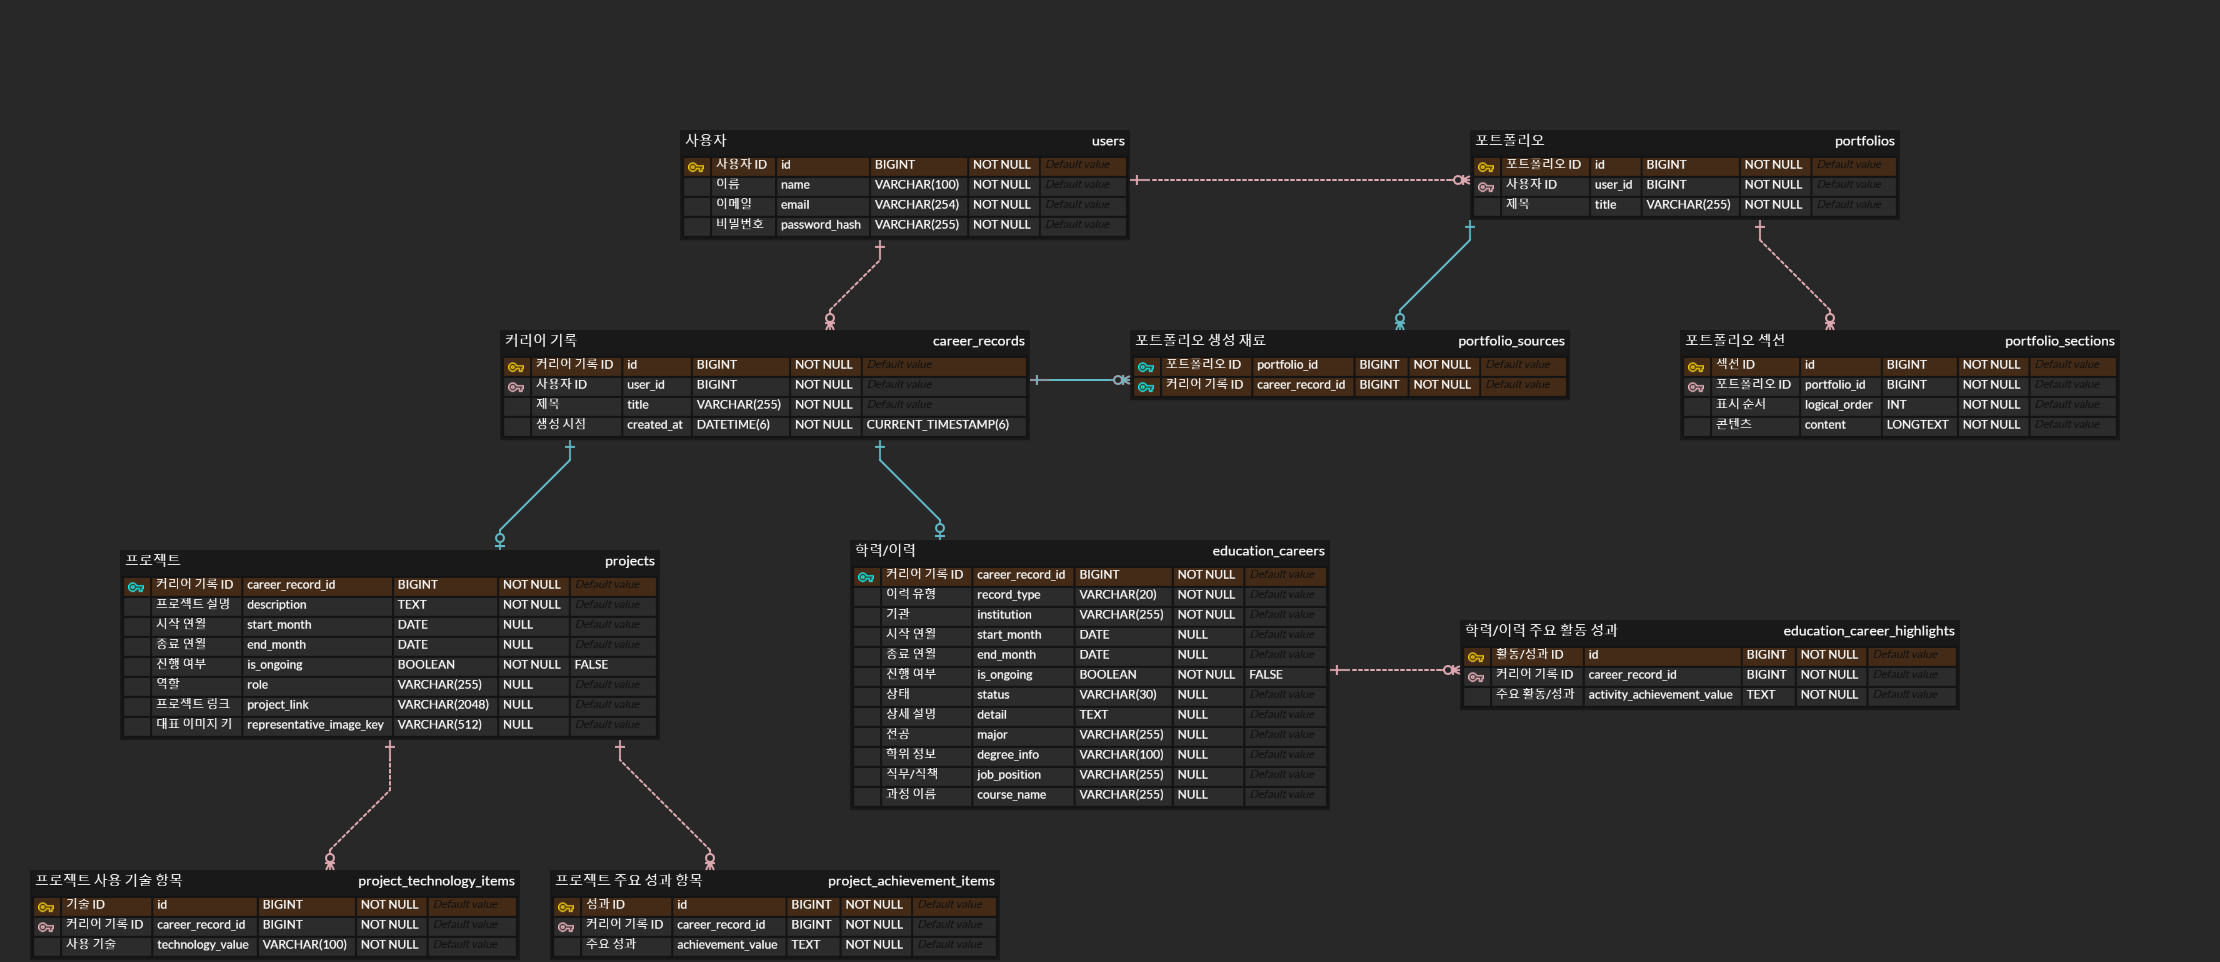
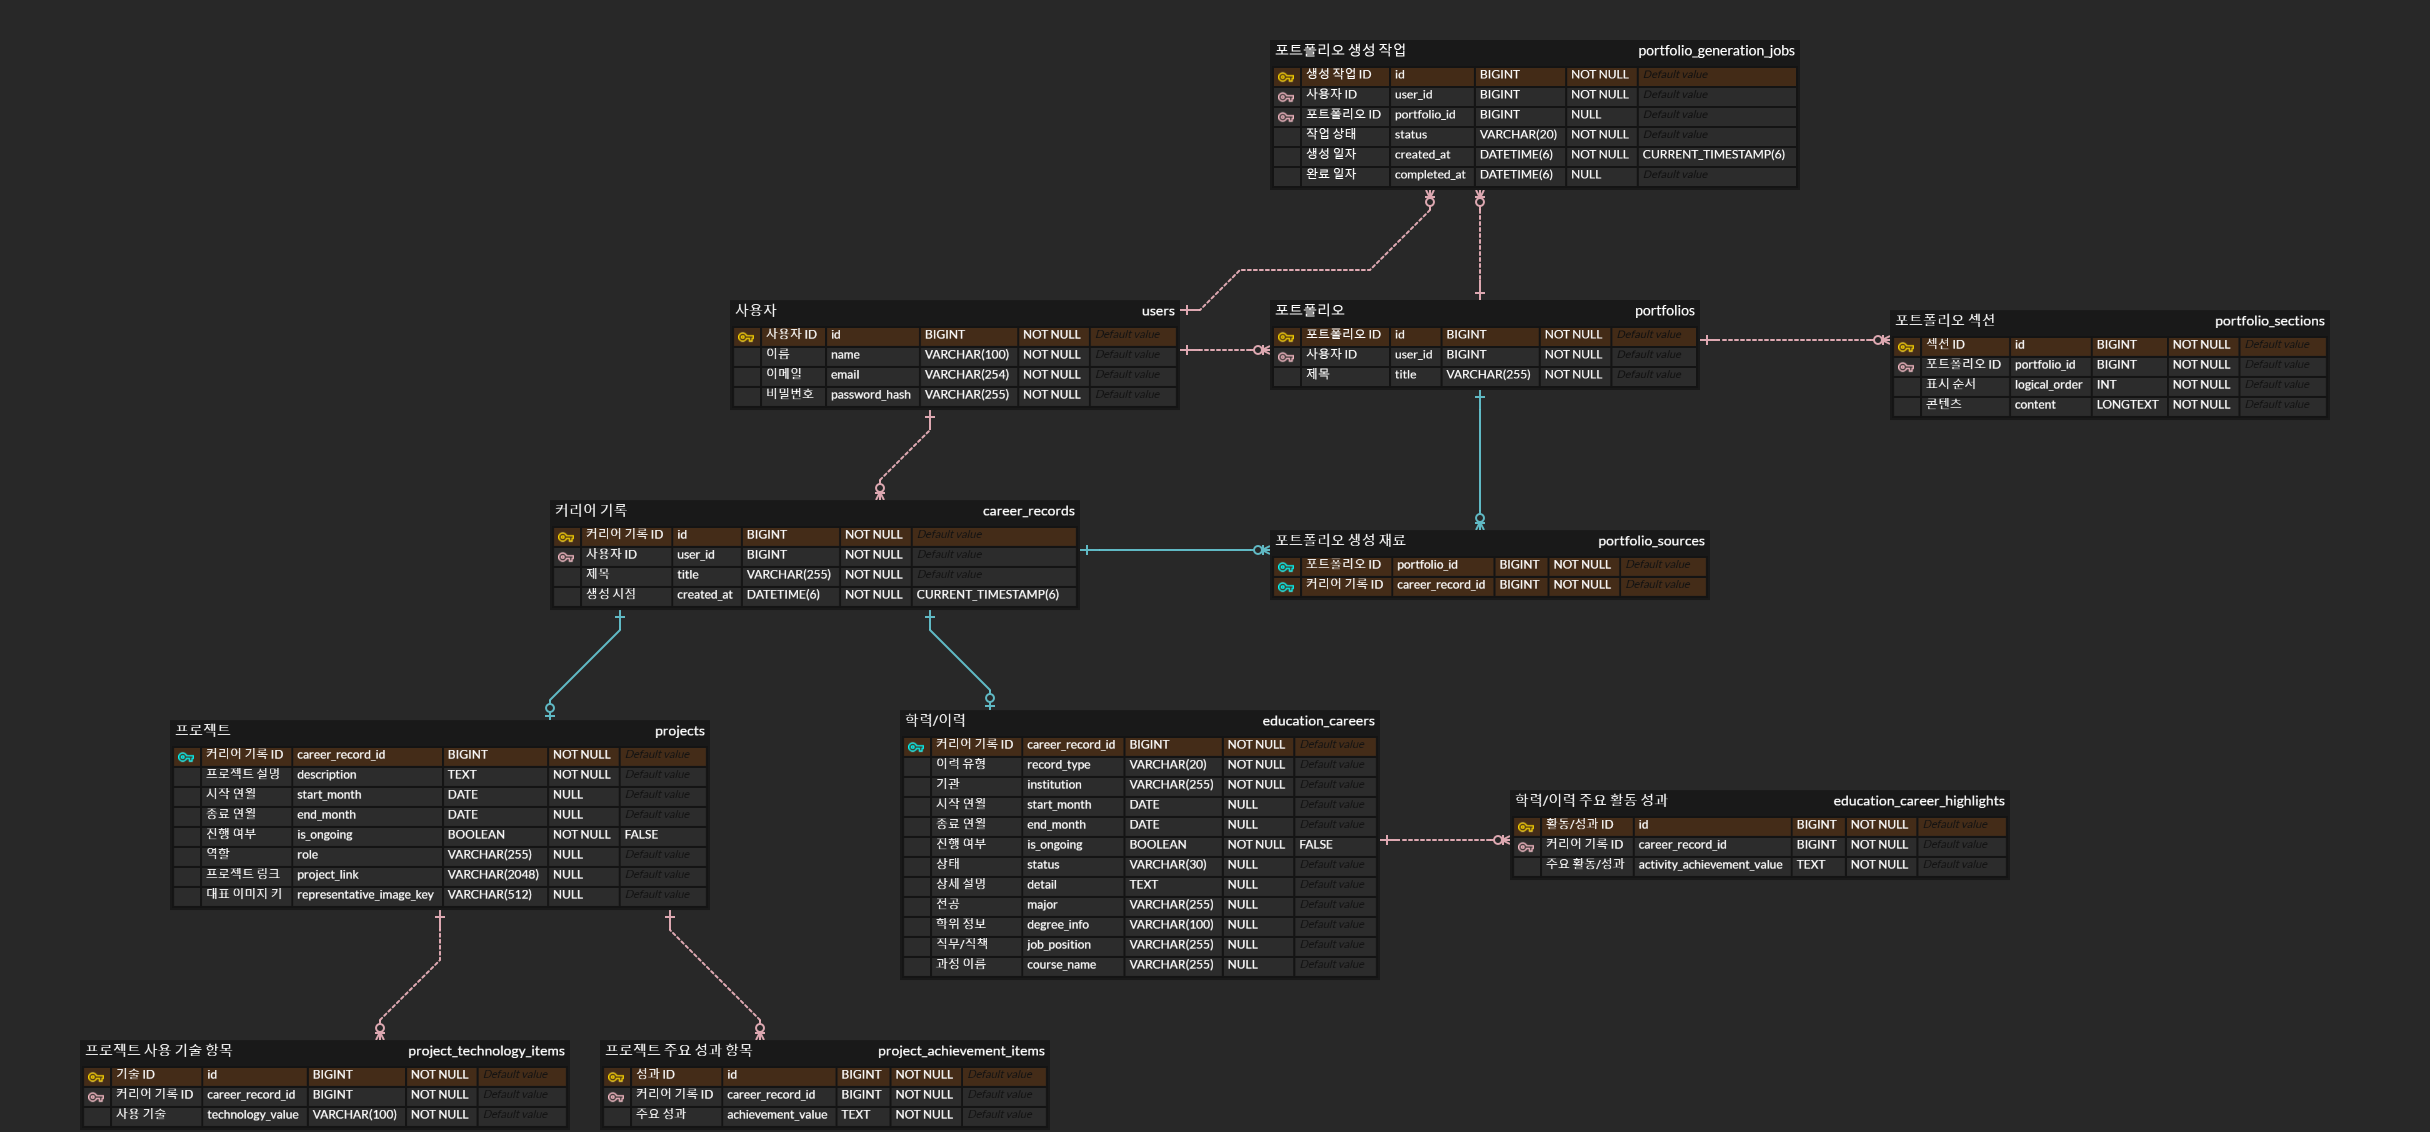
docs: 포트폴리오 비동기 생성 작업 및 물리 ERD 갱신

diff --git a/docs/requirements/erd/mvp-logical-erd.md b/docs/requirements/erd/mvp-logical-erd.md
@@ -17,7 +17,7 @@ ORM 매핑 및 API 구조는 정의하지 않는다.
 - [Expresso 1차 MVP 범위 초안](../mvp-scope.md)
 - [Expresso 1차 MVP 개념 ERD](./mvp-conceptual-erd.md)
 
-현재 1차 MVP의 논리 모델에는 다음 10개 엔티티를 포함한다.
+현재 1차 MVP의 논리 모델에는 다음 11개 엔티티를 포함한다.
 
 1. 사용자
 2. 커리어 기록
@@ -29,6 +29,7 @@ ORM 매핑 및 API 구조는 정의하지 않는다.
 8. 포트폴리오
 9. 포트폴리오 섹션
 10. 포트폴리오 생성 재료
+11. 포트폴리오 생성 작업
 
 현재 MVP에서 상세화하는 Career Category는 프로젝트와 학력·이력이다.
 자격증·수상과 학술·집필은 현재 MVP에 포함하지 않으며, 활동·리더십과 경험은
@@ -50,6 +51,11 @@ ORM 매핑 및 API 구조는 정의하지 않는다.
 | 포트폴리오 | 사용자에게 귀속되는 독립 결과물 엔티티 |
 | 포트폴리오 섹션 | 포트폴리오에 종속된 순서 있는 콘텐츠 엔티티 |
 | 포트폴리오 N:M 커리어 기록 | 두 식별자를 복합 식별자로 사용하는 포트폴리오 생성 재료 엔티티 |
+| 비동기 생성 작업 영속화 결정 | 사용자와 생성 결과 포트폴리오를 참조하는 포트폴리오 생성 작업 엔티티 |
+
+포트폴리오 생성 작업은 핵심 비즈니스 개념을 표현하는 개념 ERD에는 추가하지
+않는다. 비동기 처리 상태를 DB에 영속하는 독립 애플리케이션 Resource이므로 논리
+ERD부터 포함한다.
 
 개념 ERD에서는 사용자를 소유 주체로만 표현하고 인증 정보를 생략했다. 논리
 ERD에서는 현재 사용자 Decision에 따라 이름, 이메일 및 비밀번호 자격정보를
@@ -290,7 +296,33 @@ ERD에서는 현재 사용자 Decision에 따라 이름, 이메일 및 비밀번
 콘텐츠별 출처 관계는 추가하지 않는다. 출처 관계는 원본 Career와 포트폴리오의
 자동 동기화를 의미하지 않는다.
 
-## 13. 논리 엔티티 관계
+## 13. 포트폴리오 생성 작업
+
+포트폴리오 생성 작업은 비동기 Portfolio 생성 요청의 처리 상태와 생성 결과를
+추적하는 논리 엔티티이다.
+
+| 논리 속성 | 역할 | 필수 여부 및 제약 |
+| --- | --- | --- |
+| 생성 작업 식별자 | PK | 필수 |
+| 사용자 식별자 | FK → 사용자 | 필수 |
+| 상태 | 일반 속성 | 필수, `PENDING`, `PROCESSING`, `SUCCEEDED`, `FAILED` 중 하나 |
+| 생성된 포트폴리오 식별자 | FK → 포트폴리오 | 선택 |
+| 생성 시점 | 일반 속성 | 필수 |
+| 완료 시점 | 일반 속성 | 선택 |
+
+사용자 한 명은 포트폴리오 생성 작업을 0개 이상 가질 수 있으며, 각 생성 작업은
+정확히 한 사용자에게 귀속된다. 각 생성 작업은 생성 결과 포트폴리오를 0개 또는
+1개 참조한다. 하나의 포트폴리오를 참조할 수 있는 생성 작업 수에는 현재 고유
+제약을 두지 않는다.
+
+생성 요청을 접수하면 생성 작업을 먼저 생성한다. 유효한 생성 결과를 얻은 경우
+포트폴리오, 포트폴리오 섹션 및 포트폴리오 생성 재료를 저장하고 생성 작업을
+`SUCCEEDED` 상태와 생성된 포트폴리오에 연결한다. 생성에 실패한 경우 정상 완료된
+포트폴리오를 저장하지 않고 생성 작업을 `FAILED` 상태로 유지한다.
+
+상세 상태 전이, 재시도, Queue 및 Worker 구조는 현재 논리 모델에서 결정하지 않는다.
+
+## 14. 논리 엔티티 관계
 
 | 관계 | Cardinality | 관계 종류 | 의미 |
 | --- | --- | --- | --- |
@@ -303,8 +335,10 @@ ERD에서는 현재 사용자 Decision에 따라 이름, 이메일 및 비밀번
 | 포트폴리오 — 포트폴리오 섹션 | 1 : 1..N | 비식별 관계 | 각 포트폴리오는 하나 이상의 섹션을 가진다. |
 | 포트폴리오 — 포트폴리오 생성 재료 | 1 : 1..N | 식별 관계 | 포트폴리오 식별자가 생성 재료의 복합 PK에 포함된다. |
 | 커리어 기록 — 포트폴리오 생성 재료 | 1 : 0..N | 식별 관계 | 커리어 기록 식별자가 생성 재료의 복합 PK에 포함된다. |
+| 사용자 — 포트폴리오 생성 작업 | 1 : 0..N | 비식별 관계 | 각 생성 작업은 정확히 한 사용자에게 귀속된다. |
+| 포트폴리오 — 포트폴리오 생성 작업 | 1 : 0..N | 비식별 관계 | 각 생성 작업은 생성 결과 포트폴리오를 0개 또는 1개 참조한다. |
 
-## 14. 현재 논리 ERD
+## 15. 현재 논리 ERD
 
 다음 그림은 물리 데이터 타입과 구현 기술을 제외한 현재 논리 관계를 나타낸다.
 
@@ -321,18 +355,22 @@ ERD에서는 현재 사용자 Decision에 따라 이름, 이메일 및 비밀번
   │
   └─ 비식별 ── (0..N) 포트폴리오
                             ├─ (1..N) 포트폴리오 섹션
-                            └─ (1..N) 포트폴리오 생성 재료
-                                              └─ (각 항목이 커리어 기록 1개 참조)
+                            ├─ (1..N) 포트폴리오 생성 재료
+                            │                  └─ (각 항목이 커리어 기록 1개 참조)
+                            └─ (0..N) 포트폴리오 생성 작업의 생성 결과
 
 커리어 기록 (1) ── 식별 ── (0..N) 포트폴리오 생성 재료
 포트폴리오   (1) ── 식별 ── (1..N) 포트폴리오 생성 재료
+사용자       (1) ── 비식별 ── (0..N) 포트폴리오 생성 작업
+포트폴리오   (1) ── 비식별 ── (0..N) 포트폴리오 생성 작업
+각 포트폴리오 생성 작업은 생성 결과 포트폴리오를 0..1개 참조한다.
 ```
 
 ![Expresso 1차 MVP 논리 ERD](./images/expresso-1st-mvp-logical-erd.png)
 
-> 본 이미지는 임시 파일이며, 추후 수정할 예정이다.
+> 본 이미지는 임시 파일이며, 포트폴리오 생성 작업은 추후 이미지에 반영할 예정이다.
 
-## 15. 논리 제약
+## 16. 논리 제약
 
 현재 논리 모델은 다음 제약을 가진다.
 
@@ -348,8 +386,11 @@ ERD에서는 현재 사용자 Decision에 따라 이름, 이메일 및 비밀번
 - 하나의 포트폴리오는 최소 1개의 포트폴리오 생성 재료를 가진다.
 - 같은 포트폴리오와 커리어 기록의 생성 재료 조합은 중복되지 않는다.
 - Career와 포트폴리오는 출처 관계를 유지하더라도 자동으로 동기화되지 않는다.
+- 포트폴리오 생성 작업의 상태는 `PENDING`, `PROCESSING`, `SUCCEEDED`, `FAILED` 중 하나이다.
+- 정상 완료된 생성 작업은 생성된 포트폴리오를 참조한다.
+- 실패한 생성 작업은 정상 완료된 포트폴리오를 생성하지 않는다.
 
-## 16. 정규화 검토
+## 17. 정규화 검토
 
 현재 논리 구조는 다음 원칙을 따른다.
 
@@ -361,11 +402,12 @@ ERD에서는 현재 사용자 Decision에 따라 이름, 이메일 및 비밀번
 - 포트폴리오와 커리어 기록의 N:M 관계는 포트폴리오 생성 재료 엔티티로
   해소한다.
 - 포트폴리오 섹션의 순서는 포트폴리오 범위의 논리적 고유성으로 관리한다.
+- 비동기 생성 상태는 포트폴리오 결과물과 분리된 포트폴리오 생성 작업에서 관리한다.
 
 현재 1차 MVP의 프로젝트 링크는 선택 가능한 단일값이다. 대표 이미지 및 Section
 콘텐츠는 현재 정의된 의미까지만 표현하며, 실제 저장 구조는 물리 ERD에서 검토한다.
 
-## 17. 현재 미결정 사항
+## 18. 현재 미결정 사항
 
 다음 사항은 현재 논리 ERD의 문서화를 막지 않으며 미결정 상태를 유지한다.
 
@@ -378,9 +420,14 @@ ERD에서는 현재 사용자 Decision에 따라 이름, 이메일 및 비밀번
 - 대표 이미지 저장 형식
 - FK 삭제 정책
 - 생성 결과 독립성을 구현할 Snapshot 방식
+- 포트폴리오 생성 작업의 상세 상태 전이
+- 생성 실패 정보의 표현 및 노출 범위
+- 생성 작업의 재시도 정책
+- Queue 및 Worker 구조
+- Idempotency-Key 정책
 - JPA 매핑 방식
 
-## 18. 물리 ERD에서 검토할 사항
+## 19. 물리 ERD에서 검토할 사항
 
 물리 ERD 단계에서는 다음 사항을 별도로 검토한다.
 
@@ -394,6 +441,8 @@ ERD에서는 현재 사용자 Decision에 따라 이름, 이메일 및 비밀번
 - 대표 이미지의 저장 및 수명주기 구조
 - 포트폴리오 섹션 콘텐츠의 저장 형식
 - 포트폴리오 생성 재료의 복합 PK와 참조 무결성 구현 방식
+- 포트폴리오 생성 작업의 식별자, 상태, 시점 및 결과 참조 구조
+- 포트폴리오 생성 작업의 FK와 조회 인덱스
 - FK 삭제 및 Cascade 정책
 - 필요한 인덱스와 고유 제약
 - 생성 결과 독립성을 위한 Snapshot, 복사 또는 참조 구조

diff --git a/docs/requirements/erd/mvp-physical-erd.md b/docs/requirements/erd/mvp-physical-erd.md
@@ -54,7 +54,7 @@ UUID는 현재 1차 MVP에서 사용하지 않는다.
 
 ## 4. 현재 물리 테이블
 
-현재 1차 MVP 물리 모델은 정확히 다음 10개 테이블로 구성한다.
+현재 1차 MVP 물리 모델은 정확히 다음 11개 테이블로 구성한다.
 
 | 테이블 | 역할 | 대응 논리 엔티티 |
 | --- | --- | --- |
@@ -68,6 +68,7 @@ UUID는 현재 1차 MVP에서 사용하지 않는다.
 | `portfolios` | 사용자에게 귀속되는 독립 Portfolio 결과를 저장한다. | 포트폴리오 |
 | `portfolio_sections` | Portfolio의 순서 있는 콘텐츠를 저장한다. | 포트폴리오 섹션 |
 | `portfolio_sources` | Portfolio 생성에 사용한 CareerRecord 집합을 추적한다. | 포트폴리오 생성 재료 |
+| `portfolio_generation_jobs` | 비동기 Portfolio 생성 요청의 상태와 생성 결과를 추적한다. | 포트폴리오 생성 작업 |
 
 현재 물리 설계에는 별도 Master, Category, Asset 또는 Block 테이블을 추가하지
 않는다.
@@ -354,7 +355,36 @@ Portfolio 소유 사용자 = Source CareerRecord 소유 사용자
 선택한 모든 CareerRecord의 존재 여부, 사용자 소유권 및 새로운 생성 재료로 사용할
 수 있는지를 재검증하고 하나의 생성 트랜잭션으로 저장한다.
 
-## 14. 일반화와 특수화
+## 14. 포트폴리오 생성 작업
+
+### 14.1 `portfolio_generation_jobs`
+
+| 컬럼 | MySQL 타입 | NULL | 키 및 제약 | 의미 |
+| --- | --- | --- | --- | --- |
+| `id` | `BIGINT AUTO_INCREMENT` | 불가 | PK | 생성 작업 식별자 |
+| `user_id` | `BIGINT` | 불가 | FK → `users.id` | 생성 요청 사용자 |
+| `status` | `VARCHAR(20)` | 불가 | 허용값 후보 적용 | 생성 작업 상태 |
+| `portfolio_id` | `BIGINT` | 허용 | FK → `portfolios.id` | 생성된 Portfolio |
+| `created_at` | `DATETIME(6)` | 불가 | `DEFAULT CURRENT_TIMESTAMP(6)` | 생성 요청 접수 시점 |
+| `completed_at` | `DATETIME(6)` | 허용 |  | 생성 완료 또는 실패 시점 |
+
+`status`는 `PENDING`, `PROCESSING`, `SUCCEEDED`, `FAILED` 중 하나이다. 실제 DDL
+Import 파일에서는 ERDCloud 호환성을 위해 CHECK로 강제하지 않고 후보 규칙을
+주석으로 기록한다.
+
+생성 요청을 접수하면 생성 작업 행을 먼저 저장한다. 정상 생성된 경우 Portfolio,
+Section 및 Source를 저장하고 `portfolio_id`로 결과를 연결한다. 실패한 경우 정상
+완료된 Portfolio를 저장하지 않는다. 정상 완료 및 실패 시점은 `completed_at`으로
+기록한다.
+
+사용자 FK 지원을 위해 `INDEX(user_id)`를 사용하고 선택 결과 Portfolio FK 지원을
+위해 `INDEX(portfolio_id)`를 사용한다. 사용자별 작업 목록 쿼리가 현재 MVP에
+정의되지 않았으므로 `(user_id, created_at)` 복합 인덱스는 추가하지 않는다.
+
+상세 상태 전이, 재시도, 실패 정보 노출, Queue 및 Worker 구조, Idempotency-Key는
+현재 물리 ERD에서 결정하지 않는다.
+
+## 15. 일반화와 특수화
 
 현재 subtype 구조는 다음과 같다.
 
@@ -383,7 +413,7 @@ DB의 PK와 FK로 다음 조건을 보장할 수 있다.
 검증 후 함께 Commit한다. 이 조건을 위해 Category 컬럼이나 DB Trigger를 현재
 추가하지 않는다.
 
-## 15. 인덱스와 고유 제약
+## 16. 인덱스와 고유 제약
 
 | 테이블 | Index / Constraint | 목적 |
 | --- | --- | --- |
@@ -396,6 +426,8 @@ DB의 PK와 FK로 다음 조건을 보장할 수 있다.
 | `portfolio_sections` | UNIQUE `(portfolio_id, logical_order)` | Portfolio별 순서 중복 방지 및 정렬 |
 | `portfolio_sources` | PK `(portfolio_id, career_record_id)` | Source 조합 중복 방지와 Portfolio 기준 조회 |
 | `portfolio_sources` | INDEX `(career_record_id, portfolio_id)` | CareerRecord 기준 Source 역조회 및 FK 지원 |
+| `portfolio_generation_jobs` | INDEX `(user_id)` | 사용자 FK 지원 |
+| `portfolio_generation_jobs` | INDEX `(portfolio_id)` | 선택 결과 Portfolio FK 지원 |
 
 현재 요구사항 없이 `title`, `role`, `record_type`, `status`, `institution`,
 `start_month`, `end_month`, `is_ongoing`, `technology_value` 또는
@@ -405,7 +437,7 @@ DB의 PK와 FK로 다음 조건을 보장할 수 있다.
 복합 인덱스 컬럼 순서, PK와 UNIQUE 인덱스의 중복 여부 및 쓰기 비용을 함께
 검토하여 선택한다. 구현 후 `EXPLAIN`으로 실제 실행계획을 확인한다.
 
-## 16. FK 관계
+## 17. FK 관계
 
 | 자식 테이블 | FK | 부모 테이블 | 참조 컬럼 | 관계 성격 |
 | --- | --- | --- | --- | --- |
@@ -419,8 +451,10 @@ DB의 PK와 FK로 다음 조건을 보장할 수 있다.
 | `portfolio_sections` | `portfolio_id` | `portfolios` | `id` | 비식별, Portfolio 1 : Section 1..N |
 | `portfolio_sources` | `portfolio_id` | `portfolios` | `id` | 식별, Portfolio 1 : Source 1..N |
 | `portfolio_sources` | `career_record_id` | `career_records` | `id` | 식별, CareerRecord 1 : Source 0..N |
+| `portfolio_generation_jobs` | `user_id` | `users` | `id` | 비식별, 사용자 1 : 생성 작업 0..N |
+| `portfolio_generation_jobs` | `portfolio_id` | `portfolios` | `id` | 비식별, Portfolio 1 : 생성 작업 0..N, 생성 작업 측 선택 참조 |
 
-## 17. 삭제 정책
+## 18. 삭제 정책
 
 현재 1차 MVP 핵심 범위에서는 Career, User 및 Portfolio 삭제의 물리 정책을
 결정하지 않는다. 모든 FK의 `ON DELETE CASCADE`, `RESTRICT` 또는 `SET NULL`을
@@ -434,9 +468,9 @@ DB의 PK와 FK로 다음 조건을 보장할 수 있다.
 
 현재 삭제 정책 미결정은 물리 ERD 문서화를 막지 않는다.
 
-## 18. 기존 개발 포털 DB 참고 결과
+## 19. 기존 개발 포털 DB 참고 결과
 
-### 18.1 수정 후 참고
+### 19.1 수정 후 참고
 
 - 기존 `password_hash` 명칭을 현재 필수 자격정보 컬럼에 맞춰 참고한다.
 - 기존 `media_asset.storage_key` 개념을 단일 `representative_image_key` 컬럼에
@@ -444,7 +478,7 @@ DB의 PK와 FK로 다음 조건을 보장할 수 있다.
 - 기존 Portfolio Section 순서 복합 UNIQUE 경험을 현재
   `(portfolio_id, logical_order)` 제약에 맞춰 참고한다.
 
-### 18.2 사용하지 않음
+### 19.2 사용하지 않음
 
 - UUID 식별자
 - PostgreSQL `citext`의 직접 사용
@@ -457,7 +491,7 @@ DB의 PK와 FK로 다음 조건을 보장할 수 있다.
 
 기존 개발 포털 DB는 현재 물리 설계의 정답이 아니다.
 
-## 19. 현재 보류사항
+## 20. 현재 보류사항
 
 다음 사항은 현재 물리 ERD를 막지 않으며 후속 단계에서 검토한다.
 
@@ -472,13 +506,17 @@ DB의 PK와 FK로 다음 조건을 보장할 수 있다.
 - FK 삭제 정책
 - Career 삭제 이후 Source 보존 방식
 - User와 Portfolio 삭제의 물리 방식
+- 포트폴리오 생성 작업의 상세 상태 전이
+- 생성 작업 재시도와 실패 정보 노출 정책
+- Queue 및 Worker 구조
+- Idempotency-Key 정책
 - JPA 매핑
 - 실제 `EXPLAIN` 결과에 따른 인덱스 조정
 
 프로젝트 링크의 단일 또는 복수 여부는 현재 보류사항이 아니다. 현재 1차 MVP의
 프로젝트 링크는 선택 가능한 단일값이다.
 
-## 20. 현재 물리 ERD
+## 21. 현재 물리 ERD
 
 ![1차 MVP 물리 ERD](./erdcloud/mvp-physical-erd.png)
 
@@ -486,7 +524,7 @@ DB의 PK와 FK로 다음 조건을 보장할 수 있다.
 가진다. 위 ASCII의 각 subtype `0..1` 표시는 개별 가지의 수량이며, 두 가지를 합친
 전체 특수화 수량은 정확히 1이다.
 
-## 21. 현재 1차 MVP E2E 지원
+## 22. 현재 1차 MVP E2E 지원
 
 현재 물리 구조는 다음 1차 MVP 흐름을 지원한다.
 
@@ -496,6 +534,7 @@ DB의 PK와 FK로 다음 조건을 보장할 수 있다.
 - EducationCareer의 복수 주요 활동·성과 저장
 - 서로 다른 Career Category의 Record를 Portfolio 재료 후보로 조회하고 선택
 - Portfolio 생성 직전 선택 CareerRecord 전체의 존재, 소유권 및 사용 가능 상태 검증
+- 비동기 Portfolio 생성 요청의 작업 상태 저장 및 생성 결과 연결
 - 최소 1개 Source와 최소 1개 Section을 가진 Portfolio 생성
 - Portfolio 목록 및 단일 결과 조회
 - Portfolio 제목 수정
@@ -508,7 +547,7 @@ Portfolio의 최소 Source 수와 최소 Section 수, Source 소유권 및 subty
 배타 조건은 단일 행 FK만으로 완전히 보장하기 어려우므로 각 생성 트랜잭션에서
 검증한다.
 
-## 22. 문서 범위 밖
+## 23. 문서 범위 밖
 
 다음 내용은 본 문서에서 작성하지 않는다.
 

diff --git a/docs/requirements/requirements-spec.md b/docs/requirements/requirements-spec.md
@@ -2913,10 +2913,11 @@ Portfolio 생성 과정이 정상적으로 완료되지 않은 경우
 - 실패한 생성 요청을 정상 완료된 Portfolio로 사용자에게 제공하지 않는다.
 - 사용자는 생성 성공과 생성 실패를 구분할 수 있어야 한다.
 
+Portfolio 생성은 비동기 방식으로 처리한다.
+
 다음 기술 정책은 이후 설계 단계에서 결정한다.
 
-- 동기 또는 비동기 생성
-- 생성 과정의 내부 상태 모델
+- 상세 상태 전이 정책
 - Queue 사용 여부
 - timeout 값
 - 자동 재시도 횟수와 알고리즘
